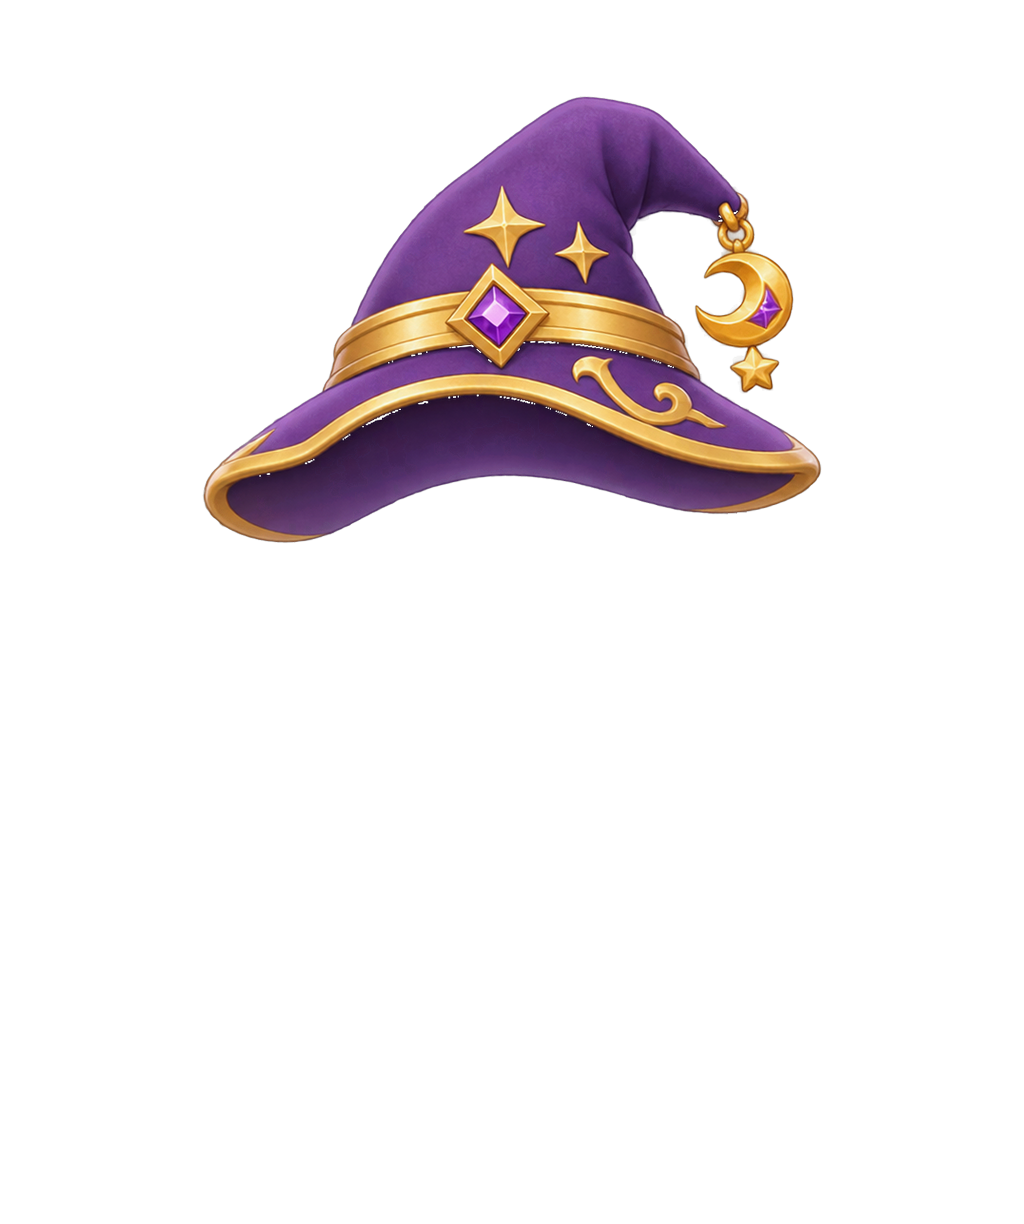
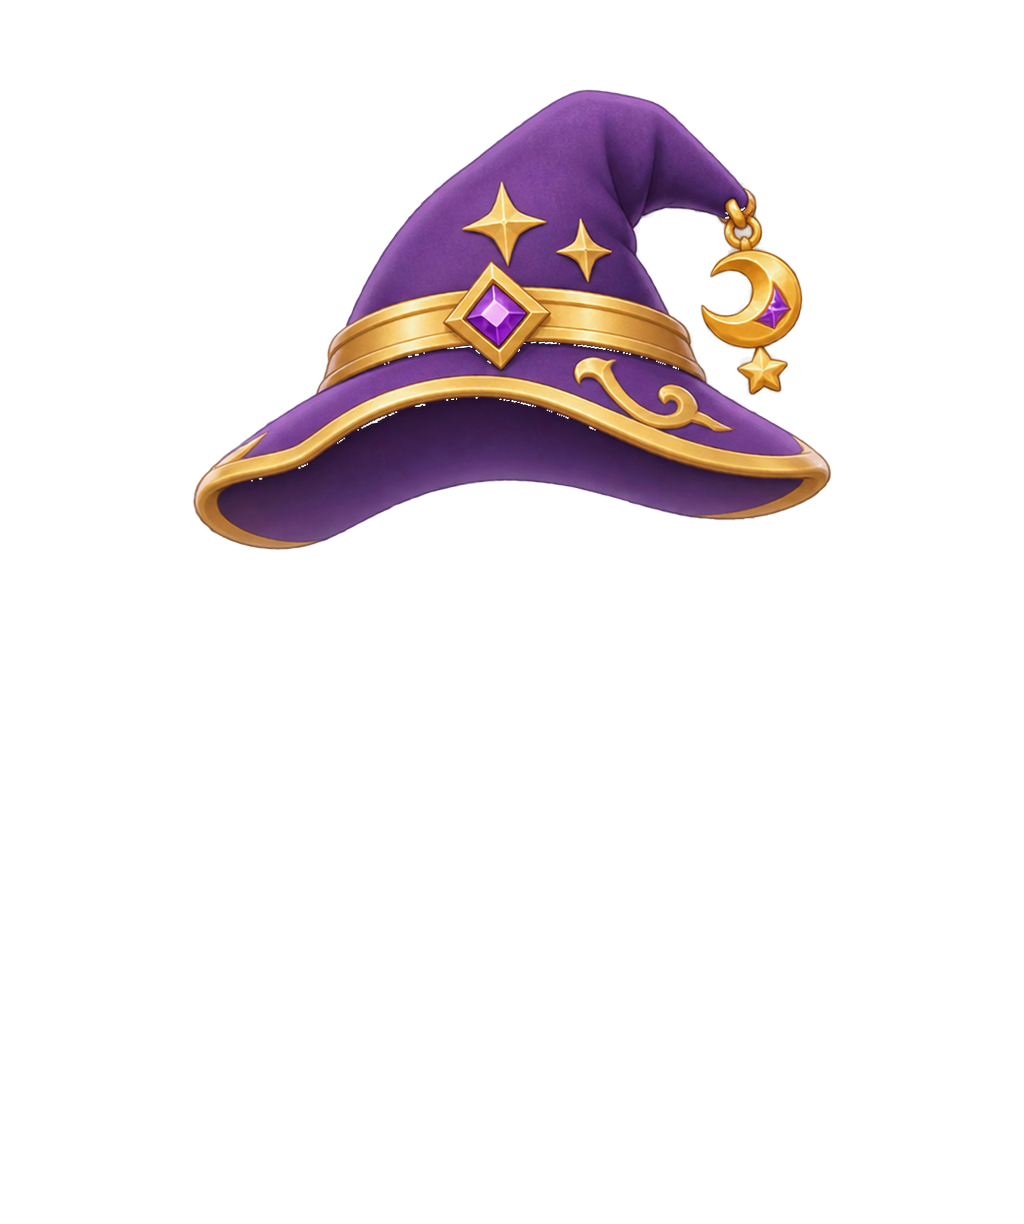
fix: 魔法使いの帽子を被っている見た目に（髪を帽子の中に収める）
Claude-Session: https://claude.ai/code/session_01NXuBE3U4UAebXMPco3J5UQ

diff --git a/app/lib/avatar/catalog.ts b/app/lib/avatar/catalog.ts
@@ -121,9 +121,12 @@ export const GEAR_READY = new Set<string>([]);
 export const HEAD_BEHIND_HAIR = new Set<string>([]);  // 後ろ配置は髪に埋もれたため不使用（前被りに戻した）
 
 /** 画像差し替え時にブラウザキャッシュを無効化するためのバージョン */
-export const ASSET_V = "43";
+export const ASSET_V = "44";
 
-export function resolveLayers(c: AvatarConfig, job: JobKey): { layer: Layer; src: string | null; missing: boolean }[] {
+/** 被ると髪を帽子の中に収める頭装備。帽子より上にはみ出す髪を <id>__hairmask.png で隠す（＝ちゃんと被って見える） */
+export const HEAD_HAIR_MASK = new Set<string>(["mage_hat", "mage_hat_star", "mage_hat_moon"]);
+
+export function resolveLayers(c: AvatarConfig, job: JobKey): { layer: Layer; src: string | null; missing: boolean; mask?: string }[] {
     const g = GEAR[job];
     const find = (list: Part[], id: string) => list.find((p) => p.id === id);
     const hair = find(HAIR[c.base], c.hair);
@@ -157,5 +160,11 @@ export function resolveLayers(c: AvatarConfig, job: JobKey): { layer: Layer; src
         head_back: behind ? headGear : none,
         hair_front: { src: hairSrc("front"), missing: !(hair?.src && colorOk) }, head: behind ? none : headGear, weapon: gear(g.weapon, c.weapon, "weapon"), accessory: gear(g.accessory, c.accessory, "accessory"),
     };
-    return LAYER_ORDER.map((layer) => { const p = parts[layer]; return { layer, src: p.src ? p.src + "?v=" + ASSET_V : p.src, missing: p.missing }; });
+    // 帽子を被っている間、髪レイヤーにマスクを掛ける（帽子画像が表示できるときだけ）
+    const hairMask = HEAD_HAIR_MASK.has(c.head) && headGear.src ? `/avatar/head/${c.head}__hairmask.png?v=${ASSET_V}` : undefined;
+    return LAYER_ORDER.map((layer) => {
+        const p = parts[layer];
+        const mask = (layer === "hair_back" || layer === "hair_front") ? hairMask : undefined;
+        return { layer, src: p.src ? p.src + "?v=" + ASSET_V : p.src, missing: p.missing, mask };
+    });
 }

diff --git a/app/components/AvatarLayered.tsx b/app/components/AvatarLayered.tsx
@@ -13,7 +13,7 @@ export default function AvatarLayered({ config, job, size = "100%", showFallback
             {drawable.length === 0 && showFallback && (
                 <img src={`/jobs/${job}.webp`} alt="" decoding="async" style={{ position: "absolute", left: "10%", bottom: "6%", width: "80%", height: "72%", objectFit: "contain", filter: "drop-shadow(0 12px 12px rgba(30,40,80,.3))" }} />
             )}
-            {drawable.map((l) => <img key={l.layer} src={l.src!} alt="" decoding="async" style={{ position: "absolute", left: 0, bottom: 0, width: "100%", height: "auto" }} />)}
+            {drawable.map((l) => <img key={l.layer} src={l.src!} alt="" decoding="async" style={{ position: "absolute", left: 0, bottom: 0, width: "100%", height: "auto", ...(l.mask ? { WebkitMaskImage: `url(${l.mask})`, maskImage: `url(${l.mask})`, WebkitMaskSize: "100% 100%", maskSize: "100% 100%", WebkitMaskRepeat: "no-repeat", maskRepeat: "no-repeat" } : {}) }} />)}
             {missing > 0 && (
                 <div style={{ position: "absolute", left: "50%", bottom: 6, transform: "translateX(-50%)", fontSize: 11, fontWeight: 900, color: "#92400e", background: "rgba(255,243,199,.95)", border: "1px solid #fde68a", borderRadius: 999, padding: "3px 10px", whiteSpace: "nowrap" }}>
                     パーツ素材 準備中（{missing}）
